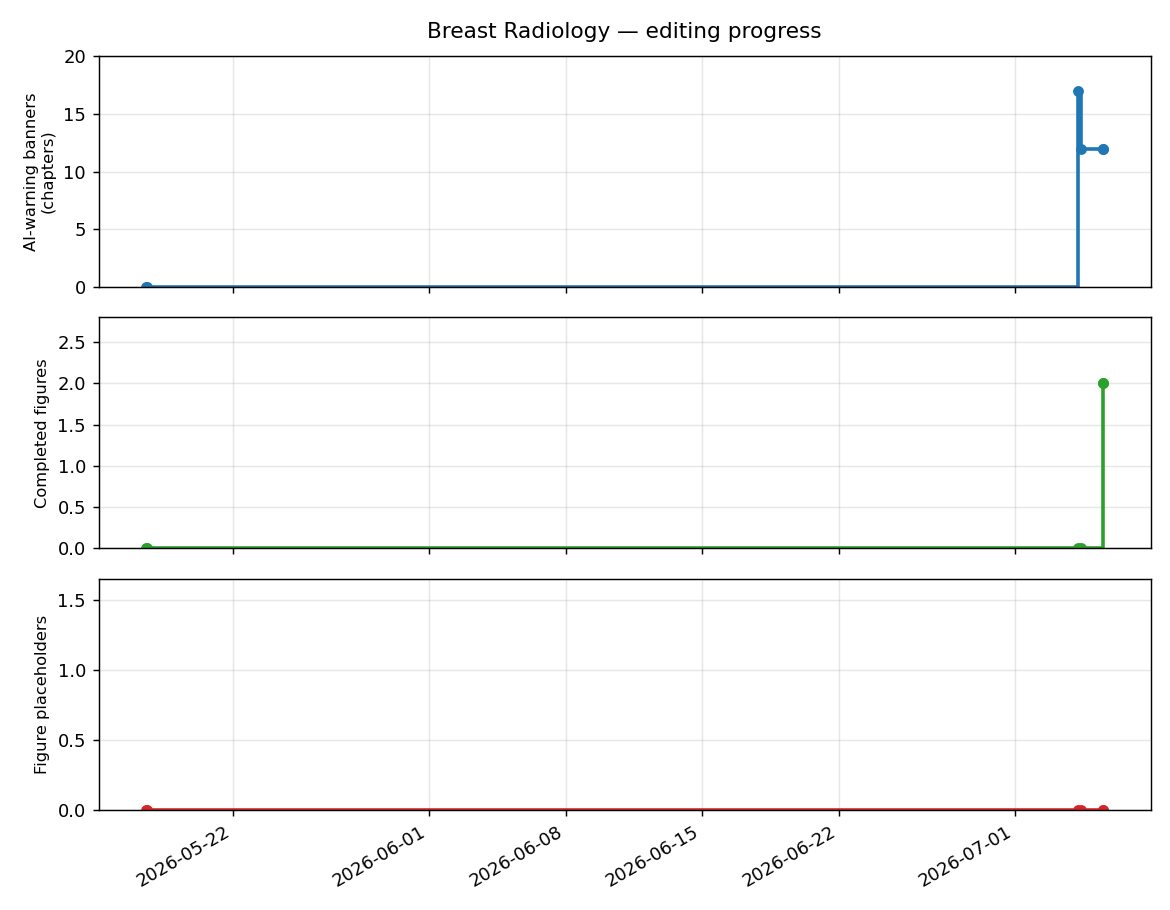
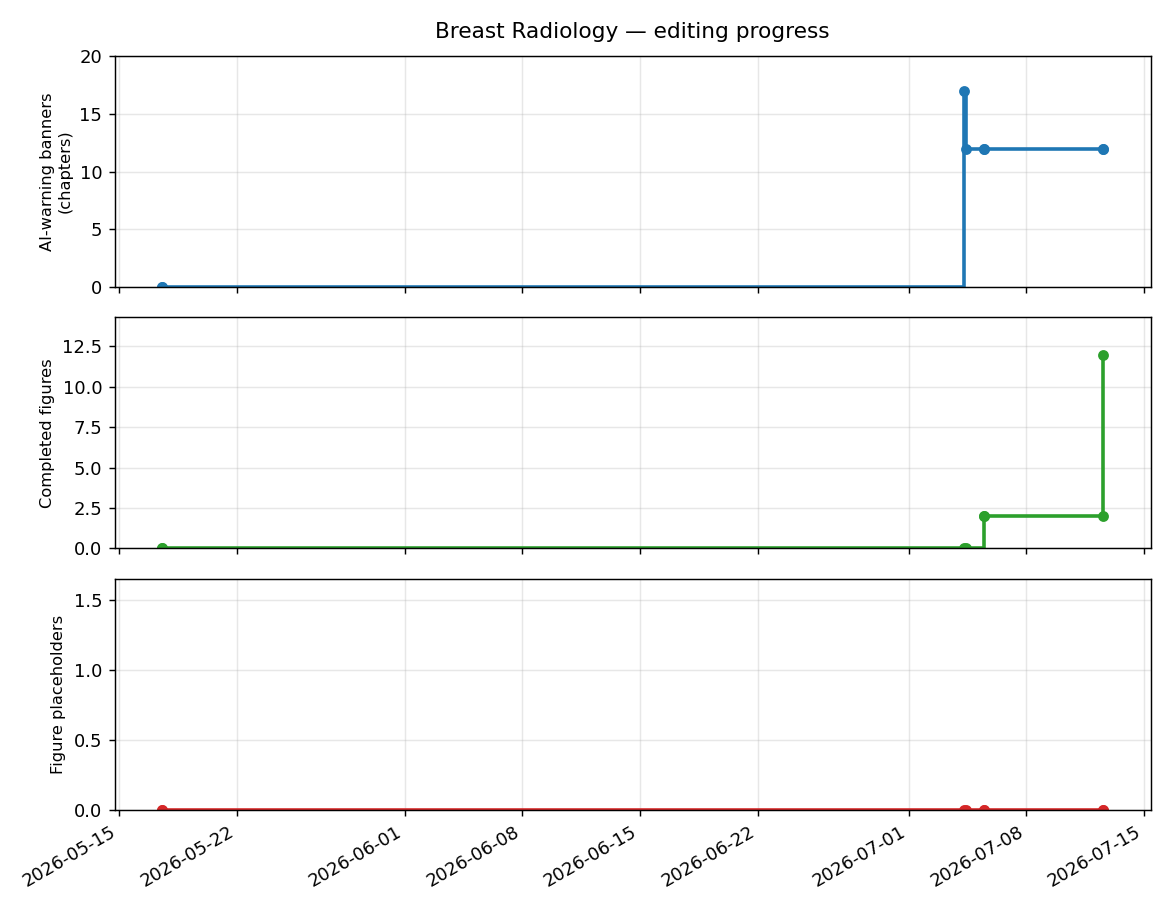
Refresh Progress page after publishing Chapter 6 figures
Completed-figures count steps 2 -> 12 with the Chapter 6 teaching figures.

diff --git a/docs/progress.md b/docs/progress.md
@@ -8,7 +8,7 @@ nav_order: 999
 
 _Auto-generated from the publication git history of the Breast Radiology site. This page tracks editing progress and is **not** clinical content._
 
-Generated 2026-07-12 14:55 · 6 commit(s) tracked (2026-05-17 → 2026-07-05).
+Generated 2026-07-12 15:02 · 8 commit(s) tracked (2026-05-17 → 2026-07-12).
 
 ![Breast Radiology editing progress over time]({{ '/docs/img/progress_breast.png' | relative_url }})
 
@@ -17,5 +17,5 @@ Generated 2026-07-12 14:55 · 6 commit(s) tracked (2026-05-17 → 2026-07-05).
 | Signal | Count |
 |---|---:|
 | AI-warning banners (chapters) | 12 |
-| Completed figures | 2 |
+| Completed figures | 12 |
 | Figure placeholders remaining | 0 |